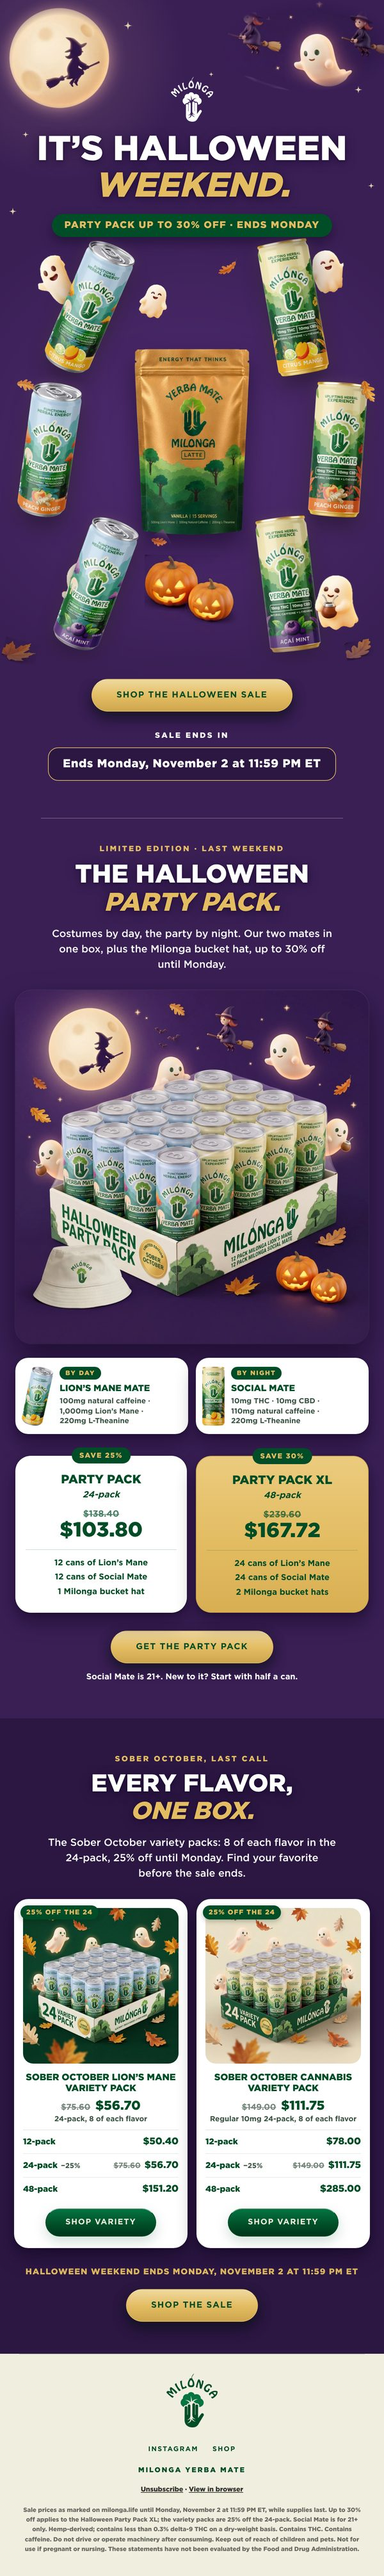
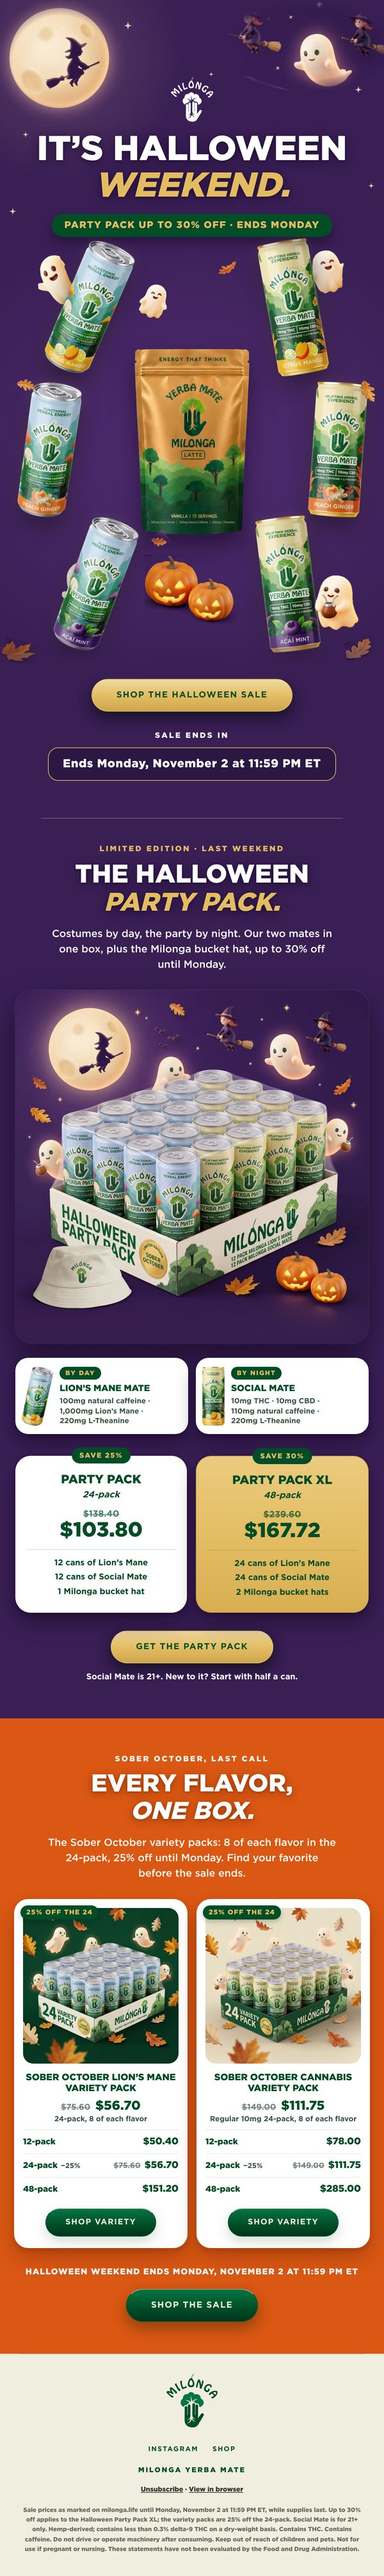
Halloween weekend: orange section images on Klaviyo's CDN
Claude-Session: https://claude.ai/code/session_01NhEtXPnfeCJfN73SqBkUZ5

Changed region(s): [[0.0, 0.6527, 1.0, 0.9324]]

diff --git a/email-ds/exports/klaviyo/halloween-weekend/halloween-weekend.html b/email-ds/exports/klaviyo/halloween-weekend/halloween-weekend.html
@@ -15,7 +15,7 @@
 <table role="presentation" class="wrap" width="600" cellpadding="0" cellspacing="0" border="0" style="width:600px;max-width:600px;">
 
 <!-- ── 1 · IT'S HALLOWEEN WEEKEND ──────────────────────────────── -->
-<tr><td style="padding:0;font-size:0;line-height:0;"><a href="https://milonga.life" target="_blank" style="text-decoration:none;"><img src="https://raw.githubusercontent.com/bernatent11-pixel/Github/claude/email-design-system-a0nlwv/email-ds/exports/klaviyo/halloween-weekend/img/s1-hero.jpg" width="600" alt="Milonga. It’s Halloween weekend. Party Pack up to 30% off, ends Monday. The whole Milonga lineup on a purple Halloween night with a full moon, witches on broomsticks, friendly ghosts, autumn leaves and jack-o’-lanterns: Lion’s Mane and Social Mate cans around a pouch of Mate Latte." style="display:block;width:100%;max-width:600px;height:auto;border:0;outline:none;text-decoration:none;"></a></td></tr>
+<tr><td style="padding:0;font-size:0;line-height:0;"><a href="https://milonga.life" target="_blank" style="text-decoration:none;"><img src="https://cdn.klaviyomail.com/company/TwvSnK/images/a97c4094-ab0c-4f8c-83b7-e7961fc0356a.jpeg" width="600" alt="Milonga. It’s Halloween weekend. Party Pack up to 30% off, ends Monday. The whole Milonga lineup on a purple Halloween night with a full moon, witches on broomsticks, friendly ghosts, autumn leaves and jack-o’-lanterns: Lion’s Mane and Social Mate cans around a pouch of Mate Latte." style="display:block;width:100%;max-width:600px;height:auto;border:0;outline:none;text-decoration:none;"></a></td></tr>
 <tr><td align="center" bgcolor="#3A1F55" style="background:#3A1F55;padding:0 20px 24px;"><table role="presentation" cellpadding="0" cellspacing="0" border="0" align="center" style="margin:0 auto;"><tr><td align="center" bgcolor="#E3BC62" style="border-radius:999px;background:#E3BC62;"><a href="https://milonga.life" target="_blank" style="display:inline-block;padding:17px 36px;white-space:nowrap;font-family:'Montserrat', 'Helvetica Neue', Arial, sans-serif;font-size:16px;font-weight:800;letter-spacing:2px;text-transform:uppercase;color:#004D27;text-decoration:none;border-radius:999px;mso-padding-alt:0;">Shop the Halloween sale</a></td></tr></table></td></tr>
 
 <!-- ── LIVE TIMER ──────────────────────────────────────────────────
@@ -28,19 +28,19 @@
 <div style="display:inline-block;background:#2C1743;border:1.5px solid #E3BC62;border-radius:16px;padding:14px 22px;font-family:'Montserrat', 'Helvetica Neue', Arial, sans-serif;font-size:18px;font-weight:900;color:#FFFFFF;letter-spacing:1px;">Ends Monday, November 2 at 11:59 PM ET</div></td></tr>
 
 <!-- ── 2 · THE HALLOWEEN PARTY PACK ────────────────────────────── -->
-<tr><td style="padding:0;font-size:0;line-height:0;"><a href="https://milonga.life/products/halloween-party-pack-bundle" target="_blank" style="text-decoration:none;"><img src="https://raw.githubusercontent.com/bernatent11-pixel/Github/claude/email-design-system-a0nlwv/email-ds/exports/klaviyo/halloween-weekend/img/s2-head.jpg" width="600" alt="Limited edition, last weekend. The Halloween Party Pack. Costumes by day, the party by night. Our two mates in one box, plus the Milonga bucket hat, up to 30% off until Monday. The Party Pack box of Lion’s Mane and Social Mate cans with a Milonga bucket hat, jack-o’-lanterns, ghosts and witches under a full moon." style="display:block;width:100%;max-width:600px;height:auto;border:0;outline:none;text-decoration:none;"></a></td></tr>
-<tr><td style="padding:0;font-size:0;line-height:0;"><a href="https://milonga.life/products/halloween-party-pack-bundle" target="_blank" style="text-decoration:none;"><img src="https://raw.githubusercontent.com/bernatent11-pixel/Github/claude/email-design-system-a0nlwv/email-ds/exports/klaviyo/halloween-weekend/img/s2-body.jpg" width="600" alt="By day, Lion’s Mane Mate: 100mg natural caffeine, 1,000mg Lion’s Mane, 220mg L-Theanine. By night, Social Mate: 10mg THC, 10mg CBD, 110mg natural caffeine, 220mg L-Theanine. Party Pack, 24-pack: $103.80, was $138.40, save 25%: 12 cans of Lion’s Mane, 12 cans of Social Mate, 1 Milonga bucket hat. Party Pack XL, 48-pack: $167.72, was $239.60, save 30%: 24 cans of Lion’s Mane, 24 cans of Social Mate, 2 Milonga bucket hats." style="display:block;width:100%;max-width:600px;height:auto;border:0;outline:none;text-decoration:none;"></a></td></tr>
+<tr><td style="padding:0;font-size:0;line-height:0;"><a href="https://milonga.life/products/halloween-party-pack-bundle" target="_blank" style="text-decoration:none;"><img src="https://cdn.klaviyomail.com/company/TwvSnK/images/574f2e1c-b15b-49cf-b08f-ee76411eeebe.jpeg" width="600" alt="Limited edition, last weekend. The Halloween Party Pack. Costumes by day, the party by night. Our two mates in one box, plus the Milonga bucket hat, up to 30% off until Monday. The Party Pack box of Lion’s Mane and Social Mate cans with a Milonga bucket hat, jack-o’-lanterns, ghosts and witches under a full moon." style="display:block;width:100%;max-width:600px;height:auto;border:0;outline:none;text-decoration:none;"></a></td></tr>
+<tr><td style="padding:0;font-size:0;line-height:0;"><a href="https://milonga.life/products/halloween-party-pack-bundle" target="_blank" style="text-decoration:none;"><img src="https://cdn.klaviyomail.com/company/TwvSnK/images/49b190ef-bae3-4f45-9404-f4e5b8d2cbfe.jpeg" width="600" alt="By day, Lion’s Mane Mate: 100mg natural caffeine, 1,000mg Lion’s Mane, 220mg L-Theanine. By night, Social Mate: 10mg THC, 10mg CBD, 110mg natural caffeine, 220mg L-Theanine. Party Pack, 24-pack: $103.80, was $138.40, save 25%: 12 cans of Lion’s Mane, 12 cans of Social Mate, 1 Milonga bucket hat. Party Pack XL, 48-pack: $167.72, was $239.60, save 30%: 24 cans of Lion’s Mane, 24 cans of Social Mate, 2 Milonga bucket hats." style="display:block;width:100%;max-width:600px;height:auto;border:0;outline:none;text-decoration:none;"></a></td></tr>
 <tr><td align="center" bgcolor="#3A1F55" style="background:#3A1F55;padding:0 24px 56px;"><table role="presentation" cellpadding="0" cellspacing="0" border="0" align="center" style="margin:0 auto;"><tr><td align="center" bgcolor="#E3BC62" style="border-radius:999px;background:#E3BC62;"><a href="https://milonga.life/products/halloween-party-pack-bundle" target="_blank" style="display:inline-block;padding:17px 40px;white-space:nowrap;font-family:'Montserrat', 'Helvetica Neue', Arial, sans-serif;font-size:16px;font-weight:800;letter-spacing:2px;text-transform:uppercase;color:#004D27;text-decoration:none;border-radius:999px;mso-padding-alt:0;">Get the Party Pack</a></td></tr></table><div style="font-family:'Montserrat', 'Helvetica Neue', Arial, sans-serif;font-size:13px;font-weight:700;color:#FFFFFF;padding-top:14px;">Social Mate is 21+. New to it? Start with half a can.</div></td></tr>
 
 <!-- ── 3 · THE SOBER OCTOBER VARIETY PACKS ─────────────────────── -->
-<tr><td style="padding:0;font-size:0;line-height:0;"><img src="https://raw.githubusercontent.com/bernatent11-pixel/Github/claude/email-design-system-a0nlwv/email-ds/exports/klaviyo/halloween-weekend/img/s3-head.jpg" width="600" alt="Sober October, last call. Every flavor, one box. The Sober October variety packs: 8 of each flavor in the 24-pack, 25% off until Monday." style="display:block;width:100%;max-width:600px;height:auto;border:0;outline:none;text-decoration:none;"></td></tr>
-<tr><td bgcolor="#DA5813" style="background:#DA5813;padding:0;font-size:0;line-height:0;"><table role="presentation" width="100%" cellpadding="0" cellspacing="0" border="0" style="table-layout:fixed;"><tr><td width="50%" valign="top" style="width:50%;padding:0;font-size:0;line-height:0;"><a href="https://milonga.life/products/lions-mane-variety-pack" target="_blank" style="text-decoration:none;"><img src="https://raw.githubusercontent.com/bernatent11-pixel/Github/claude/email-design-system-a0nlwv/email-ds/exports/klaviyo/halloween-weekend/img/s3-row-l.jpg" width="300" alt="Sober October Lion’s Mane Variety Pack, 25% off the 24-pack: 12-pack $50.40; 24-pack $56.70, was $75.60; 48-pack $151.20." style="display:block;width:100%;max-width:300px;height:auto;border:0;outline:none;text-decoration:none;"></a></td><td width="50%" valign="top" style="width:50%;padding:0;font-size:0;line-height:0;"><a href="https://milonga.life/products/variety" target="_blank" style="text-decoration:none;"><img src="https://raw.githubusercontent.com/bernatent11-pixel/Github/claude/email-design-system-a0nlwv/email-ds/exports/klaviyo/halloween-weekend/img/s3-row-r.jpg" width="300" alt="Sober October Cannabis Variety Pack, Regular 10mg, 25% off the 24-pack: 12-pack $78.00; 24-pack $111.75, was $149.00; 48-pack $285.00." style="display:block;width:100%;max-width:300px;height:auto;border:0;outline:none;text-decoration:none;"></a></td></tr></table></td></tr>
+<tr><td style="padding:0;font-size:0;line-height:0;"><img src="https://cdn.klaviyomail.com/company/TwvSnK/images/180688f1-7121-41af-b9d3-acce917daa1b.jpeg" width="600" alt="Sober October, last call. Every flavor, one box. The Sober October variety packs: 8 of each flavor in the 24-pack, 25% off until Monday." style="display:block;width:100%;max-width:600px;height:auto;border:0;outline:none;text-decoration:none;"></td></tr>
+<tr><td bgcolor="#DA5813" style="background:#DA5813;padding:0;font-size:0;line-height:0;"><table role="presentation" width="100%" cellpadding="0" cellspacing="0" border="0" style="table-layout:fixed;"><tr><td width="50%" valign="top" style="width:50%;padding:0;font-size:0;line-height:0;"><a href="https://milonga.life/products/lions-mane-variety-pack" target="_blank" style="text-decoration:none;"><img src="https://cdn.klaviyomail.com/company/TwvSnK/images/530cb437-d753-4ee4-a8f9-9318bbd6a5e6.jpeg" width="300" alt="Sober October Lion’s Mane Variety Pack, 25% off the 24-pack: 12-pack $50.40; 24-pack $56.70, was $75.60; 48-pack $151.20." style="display:block;width:100%;max-width:300px;height:auto;border:0;outline:none;text-decoration:none;"></a></td><td width="50%" valign="top" style="width:50%;padding:0;font-size:0;line-height:0;"><a href="https://milonga.life/products/variety" target="_blank" style="text-decoration:none;"><img src="https://cdn.klaviyomail.com/company/TwvSnK/images/a7230f66-7745-432e-a81d-a9614c882323.jpeg" width="300" alt="Sober October Cannabis Variety Pack, Regular 10mg, 25% off the 24-pack: 12-pack $78.00; 24-pack $111.75, was $149.00; 48-pack $285.00." style="display:block;width:100%;max-width:300px;height:auto;border:0;outline:none;text-decoration:none;"></a></td></tr></table></td></tr>
 <tr><td bgcolor="#DA5813" style="background:#DA5813;padding:0;"><table role="presentation" width="100%" cellpadding="0" cellspacing="0" border="0" style="table-layout:fixed;"><tr><td width="3.667%" style="width:3.667%;padding:0;font-size:0;line-height:0;">&nbsp;</td><td width="45.167%" valign="top" align="center" bgcolor="#FFFFFF" style="width:45.167%;padding:0;background:#FFFFFF;border-radius:0 0 22px 22px;"><div style="padding:8px 6px 20px;"><table role="presentation" cellpadding="0" cellspacing="0" border="0" align="center" style="margin:0 auto;"><tr><td align="center" bgcolor="#004D27" style="border-radius:999px;background:#004D27;"><a href="https://milonga.life/products/lions-mane-variety-pack" target="_blank" class="card-btn" style="display:inline-block;padding:13px 18px;white-space:nowrap;font-family:'Montserrat', 'Helvetica Neue', Arial, sans-serif;font-size:12px;font-weight:800;letter-spacing:2px;text-transform:uppercase;color:#FFFFFF;text-decoration:none;border-radius:999px;mso-padding-alt:0;">Shop variety</a></td></tr></table></div></td><td width="2.333%" style="width:2.333%;padding:0;font-size:0;line-height:0;">&nbsp;</td><td width="45.167%" valign="top" align="center" bgcolor="#FFFFFF" style="width:45.167%;padding:0;background:#FFFFFF;border-radius:0 0 22px 22px;"><div style="padding:8px 6px 20px;"><table role="presentation" cellpadding="0" cellspacing="0" border="0" align="center" style="margin:0 auto;"><tr><td align="center" bgcolor="#004D27" style="border-radius:999px;background:#004D27;"><a href="https://milonga.life/products/variety" target="_blank" class="card-btn" style="display:inline-block;padding:13px 18px;white-space:nowrap;font-family:'Montserrat', 'Helvetica Neue', Arial, sans-serif;font-size:12px;font-weight:800;letter-spacing:2px;text-transform:uppercase;color:#FFFFFF;text-decoration:none;border-radius:999px;mso-padding-alt:0;">Shop variety</a></td></tr></table></div></td><td width="3.667%" style="width:3.667%;padding:0;font-size:0;line-height:0;">&nbsp;</td></tr></table></td></tr>
 <tr><td align="center" bgcolor="#DA5813" style="background:#DA5813;padding:30px 22px 52px;"><div style="font-family:'Montserrat', 'Helvetica Neue', Arial, sans-serif;font-size:13px;font-weight:800;letter-spacing:1.5px;text-transform:uppercase;color:#FFFFFF;padding-bottom:18px;">Halloween weekend ends <span style="white-space:nowrap;">Monday, November 2 at 11:59 PM ET</span></div><table role="presentation" cellpadding="0" cellspacing="0" border="0" align="center" style="margin:0 auto;"><tr><td align="center" bgcolor="#004D27" style="border-radius:999px;background:#004D27;"><a href="https://milonga.life" target="_blank" style="display:inline-block;padding:16px 34px;white-space:nowrap;font-family:'Montserrat', 'Helvetica Neue', Arial, sans-serif;font-size:15px;font-weight:800;letter-spacing:2px;text-transform:uppercase;color:#FFFFFF;text-decoration:none;border-radius:999px;mso-padding-alt:0;">Shop the sale</a></td></tr></table></td></tr>
 
 <!-- ── FOOTER ─────────────────────────────────────────────────────── -->
 <tr><td align="center" bgcolor="#F0EFDF" style="background:#F0EFDF;padding:34px 30px 36px;font-family:'Montserrat', 'Helvetica Neue', Arial, sans-serif;color:#004D27;">
-<a href="https://milonga.life" target="_blank"><img src="https://raw.githubusercontent.com/bernatent11-pixel/Github/claude/email-design-system-a0nlwv/email-ds/exports/klaviyo/halloween-weekend/img/footer-logo.png" width="61" height="64" alt="Milonga" style="display:block;margin:0 auto;height:64px;width:auto;border:0;"></a>
+<a href="https://milonga.life" target="_blank"><img src="https://cdn.klaviyomail.com/company/TwvSnK/images/0e781634-6907-42f6-b101-3c2c15371a99.png" width="61" height="64" alt="Milonga" style="display:block;margin:0 auto;height:64px;width:auto;border:0;"></a>
 <div style="padding-top:18px;font-size:14px;font-weight:900;letter-spacing:2px;text-transform:uppercase;"><a href="https://milonga.life" target="_blank" style="color:#004D27;text-decoration:none;">milonga.life</a></div>
 <table role="presentation" cellpadding="0" cellspacing="0" border="0" align="center" style="margin:18px auto 0;"><tr><td class="unsub-pill" align="center" style="border:1.5px solid #004D27;border-radius:999px;padding:10px 24px;font-family:'Montserrat', 'Helvetica Neue', Arial, sans-serif;font-size:11px;font-weight:800;letter-spacing:2px;text-transform:uppercase;color:#004D27;">{% unsubscribe 'Unsubscribe' %}</td></tr></table>
 <div class="web-view-line" style="padding-top:12px;font-size:11px;font-weight:600;color:#3B5344;">{% web_view %}</div>
